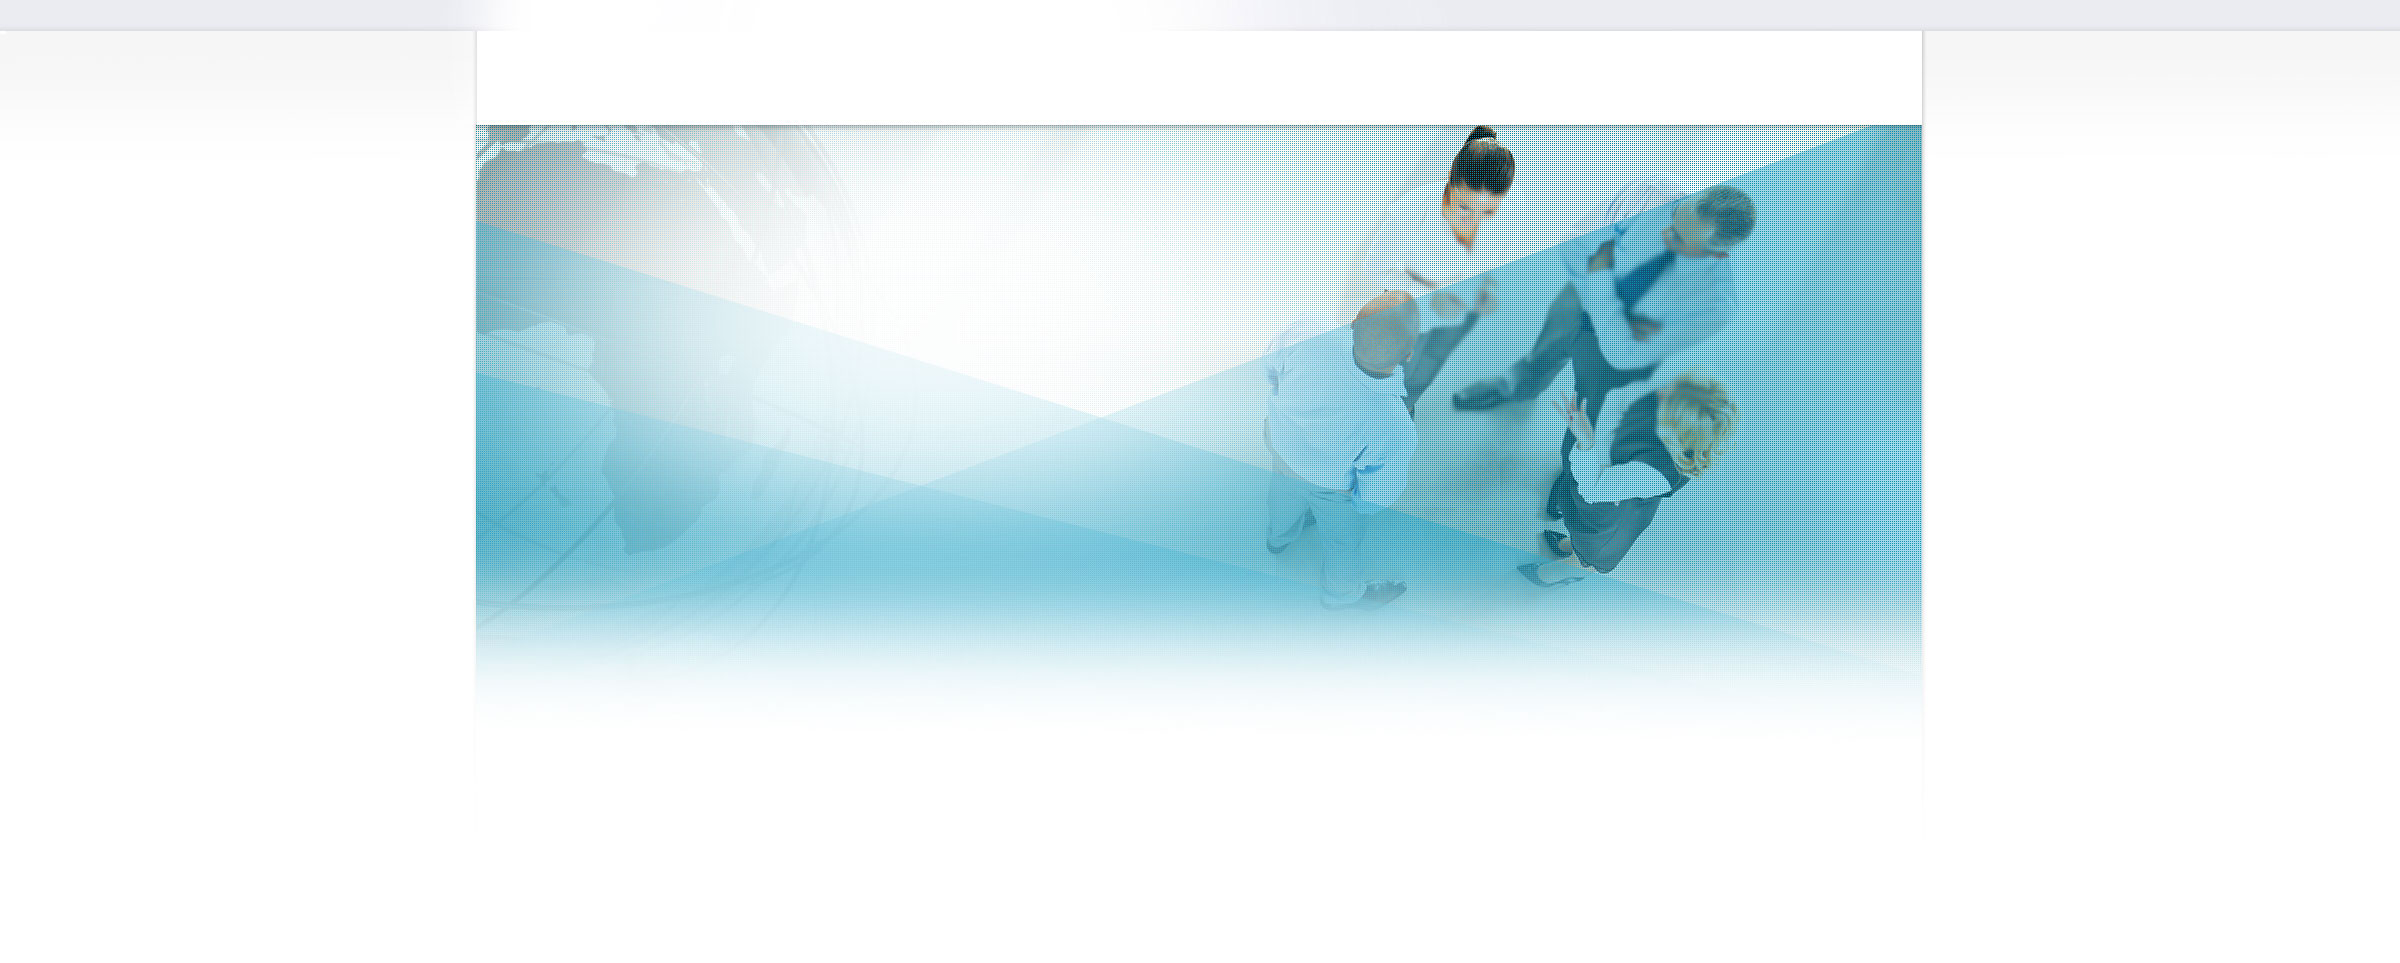
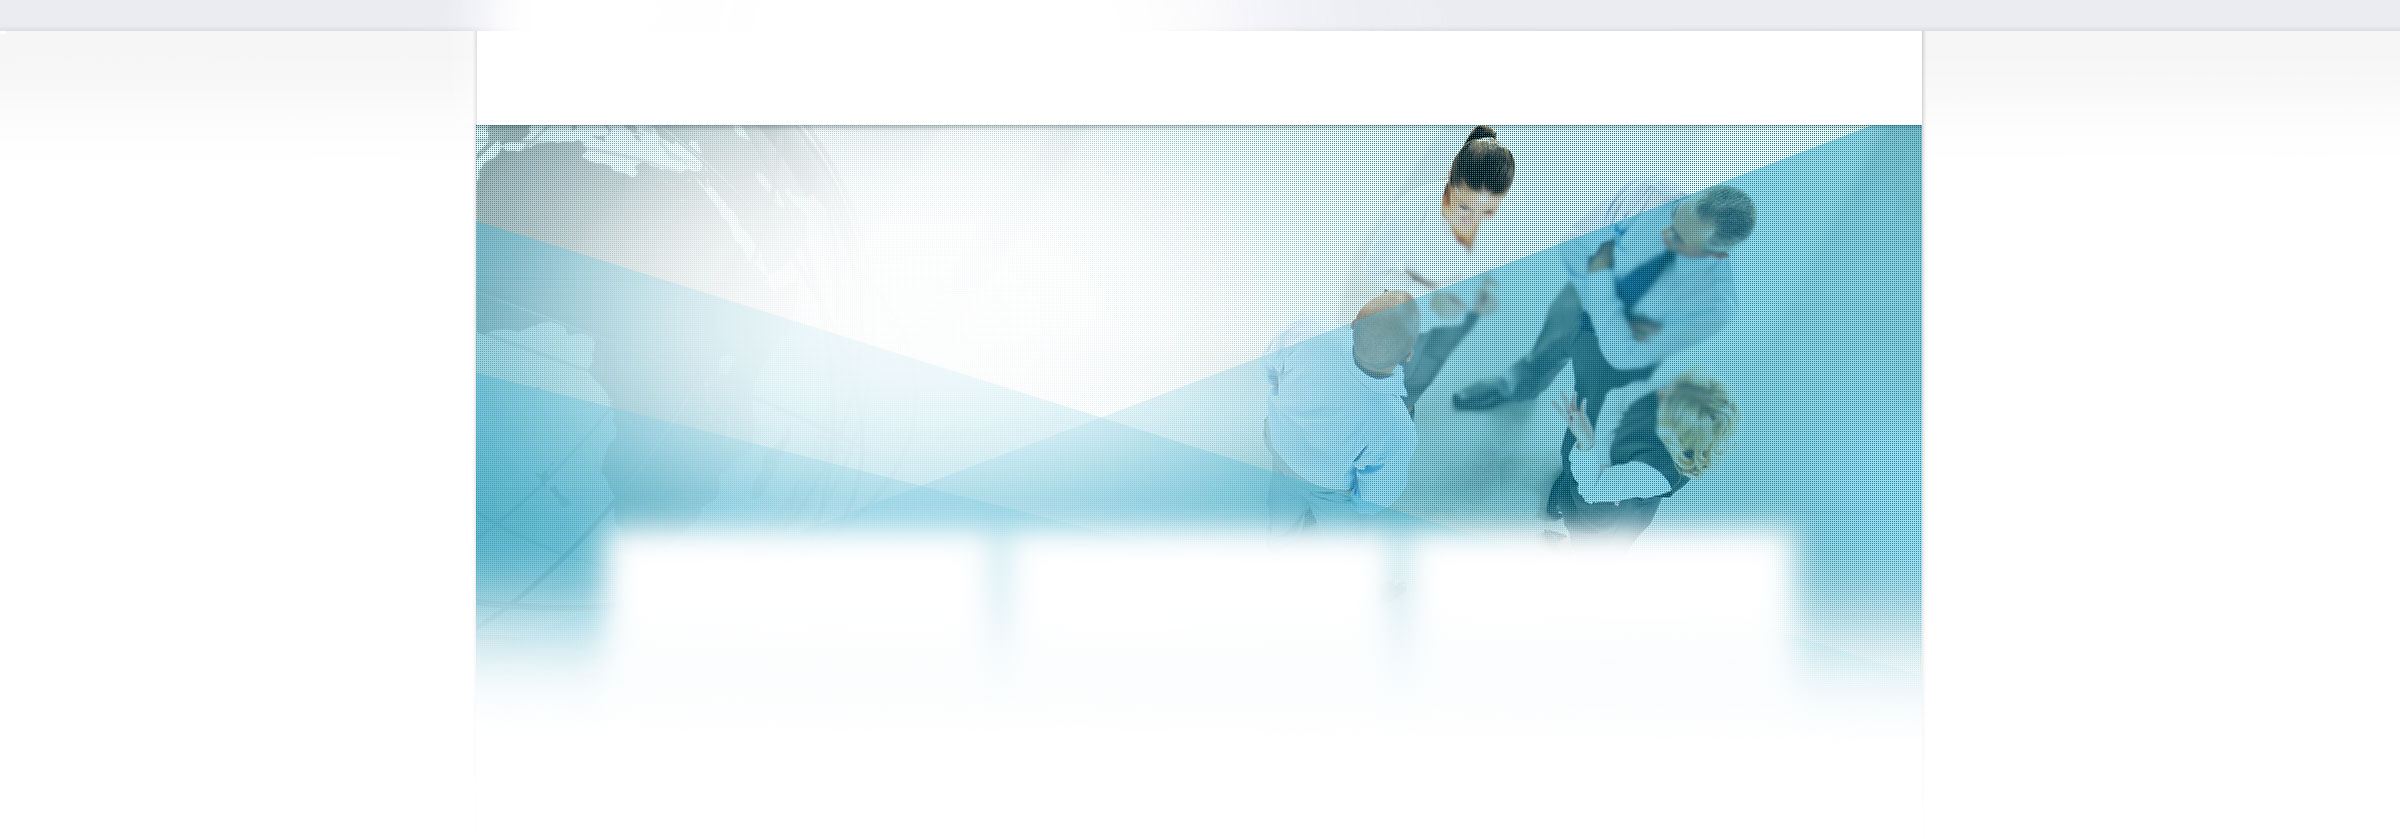
Homepage progress

Changed region(s): [[0.1875, 0.124, 0.8125, 0.8057], [0.6875, 0.031, 0.7812, 0.062], [0.5938, 0.031, 0.625, 0.062]]

diff --git a/wp-content/themes/bedstone/style.css b/wp-content/themes/bedstone/style.css
@@ -26,6 +26,7 @@ a.click-to-call, a.click-to-call:visited, a.click-to-call:hover, a.click-to-call
 ::-webkit-selection {background: #D3313A; color: #FFF; text-shadow: none;}
 ::-moz-selection    {background: #D3313A; color: #FFF; text-shadow: none;}
 ::selection         {background: #D3313A; color: #FFF; text-shadow: none;}
+a:hover {text-decoration: none;}
 
 /*Site Logo*/
 .navbar-header {position: relative; width: 50%;}
@@ -137,9 +138,32 @@ body.sticky-site-footer .site-footer {height: 150px; position: absolute; bottom:
 .dropdown-menu {top: 98%; border: none; border-radius: 0; box-shadow: none;}
 
 /*Sidebar*/
-.sidebar {padding-top: 75px;}
+.sidebar {padding-top: 55px;}
+.cta-cmelearning {background: url('images/sidebar-box-bg.png') no-repeat; height: 266px; box-shadow: 0px 0px 2px 0 rgba(0, 0, 0, 0.6); padding: 37px 40px 30px 43px;}
+.cta-cmelearning img {padding-bottom: 20px;}
+.cta-cmelearning p {margin-bottom: 15px; line-height: 28px;}
+.cta-cmelearning a.btn-default {border-bottom: 2px solid #4d636f; text-transform: none; font-size: 13px; background: #0390b1; color: #fff; padding: 13px 19px 13px 14px;}
+.cta-cmelearning a.btn-default:hover {background: #34617a; border-bottom: 2px solid #4d636f; color: #fff;}
 
+/*Button Styles*/
+.btn-default {border: none; padding: 8px 10px; border-radius: 0; font-size: 12px; font-weight: 700; text-transform: uppercase;}
+.btn-default:before {content: "\f0da"; font-family: 'FontAwesome'; padding-right: 10px;}
+.btn-default.teal {background: #fff; color: #547078; border: 3px solid #547078;}
+.btn-default.teal:hover {background: #547078; color: #fff;}
+.btn-default.red {background: #fff; color: #d3313a; border: 3px solid #d3313a;}
+.btn-default.red:hover {background: #d3313a; color: #fff;}
+.btn-default.blue {background: #fff; color: #0390b1; border: 3px solid #0390b1;}
+.btn-default.blue:hover {background: #0390b1; color: #fff;}
 
+/*Homepage*/
+.focus-areas {}
+.focus-areas div {background: url('images/focus-area-box-bg.png') no-repeat; min-height: 350px; background-size: 96%; padding-left: 2px; padding-right: 17px;}
+body.home .content {padding-bottom: 30px;}
+.focus-areas .teal h3 {background: #445a66; font-family: 'Roboto Slab', serif;  color: #fff; font-size: 17px; margin-top: 0; padding: 15px 0 15px 30px;}
+.focus-areas .red h3 {background: #d3313a; font-family: 'Roboto Slab', serif;  color: #fff; font-size: 17px; margin-top: 0; padding: 15px 0 15px 30px;}
+.focus-areas .blue h3 {background: #0390b1; font-family: 'Roboto Slab', serif;  color: #fff; font-size: 17px; margin-top: 0; padding: 15px 0 15px 30px;}
+.focus-areas p {padding: 0 35px; margin-top: 20px; margin-bottom: 30px; font-family: 'Roboto Slab', serif; color: #444d52; font-size: 17px; font-weight: 300; line-height: 28px;}
+.focus-areas a {margin: 0 35px;}
 
 /*Retina*/
 @media

diff --git a/wp-content/themes/bedstone/css/style-responsive.css b/wp-content/themes/bedstone/css/style-responsive.css
@@ -1,8 +1,8 @@
-@media only screen and (max-width: 1400px) {
+/*@media only screen and (max-width: 1400px) {
     body {background: url('../images/body-content-bg-1200.jpg') no-repeat top center;}
     body.home {background: url('../images/body-home-bg-1200.jpg') no-repeat top center;}
     .site-header {top: 5px;}
-}
+}*/
 
 @media only screen and (max-width: 1199px) {
     html { font-size: 16px; } /* http://j.eremy.net/confused-about-rem-and-em/ */

diff --git a/wp-content/themes/bedstone/front-page.php b/wp-content/themes/bedstone/front-page.php
@@ -1,0 +1,41 @@
+<?php
+/**
+ * page
+ * front page
+ *
+ * @package Bedstone
+ */
+
+get_header(); ?>
+
+<div class="container-columns row">
+    <div class="content col-md-8" role="main">
+        <?php
+        while (have_posts()) {
+            the_post();
+            get_template_part('content');
+        }
+        ?>
+    </div>
+    <?php get_sidebar(); ?>
+</div>
+
+<div class="focus-areas">
+    <div class="col-md-4 teal">
+        <h3>Cross-Cultural Healthcare</h3>
+        <p>Intro to this topic focus area adipiscing elit. Donec pretium lacus id lorem auctor, id gravida felis ultrices. Integer eu nunc at velit dapibus vulputate.</p>
+        <a class="btn-default teal">Learn More</a>
+    </div>
+    <div class="col-md-4 red">
+        <h3>Diversity, Inclusion & Global Business</h3>
+        <p>Intro to this topic focus area adipiscing elit. Donec pretium lacus id lorem auctor, id gravida felis ultrices. Integer eu nunc at velit dapibus vulputate.</p>
+        <a class="btn-default red">Learn More</a>
+    </div>
+    <div class="col-md-4 blue">
+        <h3>Anti-Harassment Training & Coaching</h3>
+        <p>Intro to this topic focus area adipiscing elit. Donec pretium lacus id lorem auctor, id gravida felis ultrices. Integer eu nunc at velit dapibus vulputate.</p>
+        <a class="btn-default blue">Learn More</a>
+    </div>
+</div>
+
+<?php get_footer(); ?>

diff --git a/wp-content/themes/bedstone/sidebar.php b/wp-content/themes/bedstone/sidebar.php
@@ -9,7 +9,7 @@
 <aside class="sidebar col-md-4" role="complementary">
 
     <div class="cta-cmelearning">
-        <img src="<?php bloginfo('template_directory'); ?>/images/@TODO.png" alt="CM Elearning">
+        <img src="<?php bloginfo('template_directory'); ?>/images/cm-elearning-logo.png" alt="CM Elearning">
         <p>Intro to CM Elearning here pretium lacus id lorem auctor, id gravida felis ultrices. Pretium lacus id lorem auctor.</p>
         <a href="<?php the_ext('cmelearning'); ?>" class="btn btn-default">Visit cmelearning.com</a>
     </div>
